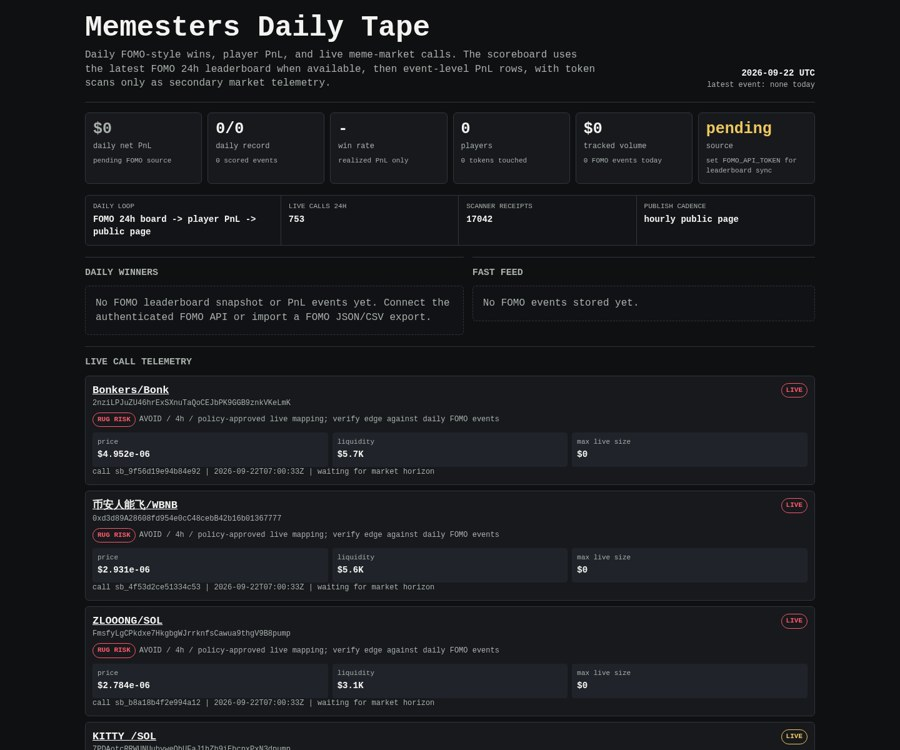
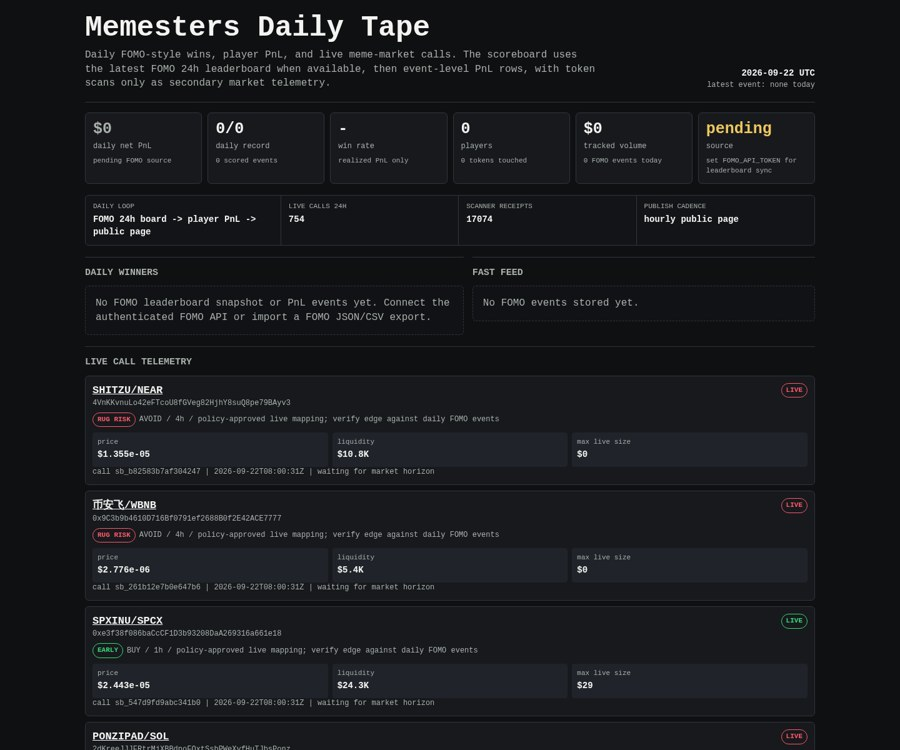
Update Memesters scoreboard

diff --git a/memesters/index.html b/memesters/index.html
@@ -149,8 +149,8 @@
 
     <div class="rail" aria-label="live operating loop">
       <div><span>daily loop</span><b>FOMO 24h board -> player PnL -> public page</b></div>
-      <div><span>live calls 24h</span><b>753</b></div>
-      <div><span>scanner receipts</span><b>17042</b></div>
+      <div><span>live calls 24h</span><b>754</b></div>
+      <div><span>scanner receipts</span><b>17074</b></div>
       <div><span>publish cadence</span><b>hourly public page</b></div>
     </div>
 
@@ -171,8 +171,8 @@
     <article class="receipt">
       <div class="receipt-head">
         <div>
-          <div class="pair"><a href="https://dexscreener.com/solana/6pqt82cl3pr6shnfeiccpis3o4dpdwextxwemv9hyfvp">Bonkers/Bonk</a></div>
-          <div class="addr">2nziLPJuZU46hrExSXnuTaQoCEJbPK9GGB9znkVKeLmK</div>
+          <div class="pair"><a href="https://dexscreener.com/solana/j7jfrhabq9zabovcb5zbcwkttblleiipccfd64wwdxvp">SHITZU/NEAR</a></div>
+          <div class="addr">4VnKKvnuLo42eFTcoU8fGVeg82HjhY8suQ8pe79BAyv3</div>
           <div class="addr policy-line">
             <span class="badge rug-risk">RUG RISK</span>
             <span>AVOID / 4h / policy-approved live mapping; verify edge against daily FOMO events</span>
@@ -181,19 +181,19 @@
         <span class="badge rug-risk">LIVE</span>
       </div>
       <div class="receipt-grid">
-        <div class="kv"><span>price</span><b>$4.952e-06</b></div>
-        <div class="kv"><span>liquidity</span><b>$5.7K</b></div>
+        <div class="kv"><span>price</span><b>$1.355e-05</b></div>
+        <div class="kv"><span>liquidity</span><b>$10.8K</b></div>
         <div class="kv"><span>max live size</span><b>$0</b></div>
       </div>
-      <div class="outcomes">call sb_9f56d19e94b84e92 | 2026-09-22T07:00:33Z | waiting for market horizon</div>
+      <div class="outcomes">call sb_b82583b7af304247 | 2026-09-22T08:00:31Z | waiting for market horizon</div>
     </article>
     
 
     <article class="receipt">
       <div class="receipt-head">
         <div>
-          <div class="pair"><a href="https://dexscreener.com/bsc/0x09c7a2e4590b4dddc2b539b63db1225b899f302e">币安人能飞/WBNB</a></div>
-          <div class="addr">0xd3d89A28608fd954e0cC48cebB42b16b01367777</div>
+          <div class="pair"><a href="https://dexscreener.com/bsc/0x460ef86d7eb2d6caefb2e8536a050966bc842379">币安飞/WBNB</a></div>
+          <div class="addr">0x9C3b9b4610D716Bf0791ef2688B0f2E42ACE7777</div>
           <div class="addr policy-line">
             <span class="badge rug-risk">RUG RISK</span>
             <span>AVOID / 4h / policy-approved live mapping; verify edge against daily FOMO events</span>
@@ -202,61 +202,19 @@
         <span class="badge rug-risk">LIVE</span>
       </div>
       <div class="receipt-grid">
-        <div class="kv"><span>price</span><b>$2.931e-06</b></div>
-        <div class="kv"><span>liquidity</span><b>$5.6K</b></div>
+        <div class="kv"><span>price</span><b>$2.776e-06</b></div>
+        <div class="kv"><span>liquidity</span><b>$5.4K</b></div>
         <div class="kv"><span>max live size</span><b>$0</b></div>
       </div>
-      <div class="outcomes">call sb_4f53d2ce51334c53 | 2026-09-22T07:00:33Z | waiting for market horizon</div>
+      <div class="outcomes">call sb_261b12e7b0e647b6 | 2026-09-22T08:00:31Z | waiting for market horizon</div>
     </article>
     
 
     <article class="receipt">
       <div class="receipt-head">
         <div>
-          <div class="pair"><a href="https://dexscreener.com/solana/bjnigikgjc1wzs9xhzafnststfyxzjwghpg6ah5tmjeg">ZLOOONG/SOL</a></div>
-          <div class="addr">FmsfyLgCPkdxe7HkgbgWJrrknfsCawua9thgV9B8pump</div>
-          <div class="addr policy-line">
-            <span class="badge rug-risk">RUG RISK</span>
-            <span>AVOID / 4h / policy-approved live mapping; verify edge against daily FOMO events</span>
-          </div>
-        </div>
-        <span class="badge rug-risk">LIVE</span>
-      </div>
-      <div class="receipt-grid">
-        <div class="kv"><span>price</span><b>$2.784e-06</b></div>
-        <div class="kv"><span>liquidity</span><b>$3.1K</b></div>
-        <div class="kv"><span>max live size</span><b>$0</b></div>
-      </div>
-      <div class="outcomes">call sb_b8a18b4f2e994a12 | 2026-09-22T07:00:33Z | waiting for market horizon</div>
-    </article>
-    
-
-    <article class="receipt">
-      <div class="receipt-head">
-        <div>
-          <div class="pair"><a href="https://dexscreener.com/solana/7qrbf6y64h87rpaz5kndqdvtjavir891vxsujxa9b4tu">KITTY /SOL</a></div>
-          <div class="addr">7PDAotcRRWUNUubyweQbUFaJ1hZb9iEbcpxPxN3dpump</div>
-          <div class="addr policy-line">
-            <span class="badge chase">CHASE</span>
-            <span>AVOID / 4h / policy-approved live mapping; verify edge against daily FOMO events</span>
-          </div>
-        </div>
-        <span class="badge chase">LIVE</span>
-      </div>
-      <div class="receipt-grid">
-        <div class="kv"><span>price</span><b>$0.0002653</b></div>
-        <div class="kv"><span>liquidity</span><b>$45.2K</b></div>
-        <div class="kv"><span>max live size</span><b>$0</b></div>
-      </div>
-      <div class="outcomes">call sb_65b83c99dfa14af2 | 2026-09-22T07:00:32Z | waiting for market horizon</div>
-    </article>
-    
-
-    <article class="receipt">
-      <div class="receipt-head">
-        <div>
-          <div class="pair"><a href="https://dexscreener.com/robinhood/0xc308e15adc80afcb211f1fdb9d0e7a625683e16bf14c165423f0bcec8a7eb3b2">PENNY/ETH</a></div>
-          <div class="addr">0x0885c95db27AFCe893a8aad1c4f50DB54560c92C</div>
+          <div class="pair"><a href="https://dexscreener.com/robinhood/0xb8f64cba3798da88a197453df15f388be0023e7df43441fe84739b03a4ce87a5">SPXINU/SPCX</a></div>
+          <div class="addr">0xe3f38f086baCcCF1D3b93208DaA269316a661e18</div>
           <div class="addr policy-line">
             <span class="badge early">EARLY</span>
             <span>BUY / 1h / policy-approved live mapping; verify edge against daily FOMO events</span>
@@ -265,19 +223,19 @@
         <span class="badge early">LIVE</span>
       </div>
       <div class="receipt-grid">
-        <div class="kv"><span>price</span><b>$4.813e-05</b></div>
-        <div class="kv"><span>liquidity</span><b>$21.2K</b></div>
-        <div class="kv"><span>max live size</span><b>$217</b></div>
+        <div class="kv"><span>price</span><b>$2.443e-05</b></div>
+        <div class="kv"><span>liquidity</span><b>$24.3K</b></div>
+        <div class="kv"><span>max live size</span><b>$29</b></div>
       </div>
-      <div class="outcomes">call sb_4eb93966d88043f9 | 2026-09-22T07:00:32Z | waiting for market horizon</div>
+      <div class="outcomes">call sb_547d9fd9abc341b0 | 2026-09-22T08:00:31Z | waiting for market horizon</div>
     </article>
     
 
     <article class="receipt">
       <div class="receipt-head">
         <div>
-          <div class="pair"><a href="https://dexscreener.com/solana/7ynhwugfm2qown5thm29kvwgh7etvmgjbz4xrsst4jum">Keainu/METAx</a></div>
-          <div class="addr">96bAkZ5CC3JGHpj4cNXwJXtsBGWpNWyvRhxJd46bHRZy</div>
+          <div class="pair"><a href="https://dexscreener.com/solana/3eyjwes5cas5ru6dy6d1pnhk62bbdjdiuzlk6pmuei1b">PONZIPAD/SOL</a></div>
+          <div class="addr">2dKreeJJJFRtrMjXBBdpoFQxtSsbPWeXyfHuTJbsPonz</div>
           <div class="addr policy-line">
             <span class="badge rug-risk">RUG RISK</span>
             <span>AVOID / 4h / policy-approved live mapping; verify edge against daily FOMO events</span>
@@ -286,11 +244,95 @@
         <span class="badge rug-risk">LIVE</span>
       </div>
       <div class="receipt-grid">
-        <div class="kv"><span>price</span><b>$2.333e-05</b></div>
-        <div class="kv"><span>liquidity</span><b>$13.7K</b></div>
+        <div class="kv"><span>price</span><b>$2.599e-05</b></div>
+        <div class="kv"><span>liquidity</span><b>$12.6K</b></div>
         <div class="kv"><span>max live size</span><b>$0</b></div>
       </div>
-      <div class="outcomes">call sb_e279c71048894d71 | 2026-09-22T07:00:32Z | waiting for market horizon</div>
+      <div class="outcomes">call sb_6875edbd58904ef3 | 2026-09-22T08:00:30Z | waiting for market horizon</div>
+    </article>
+    
+
+    <article class="receipt">
+      <div class="receipt-head">
+        <div>
+          <div class="pair"><a href="https://dexscreener.com/bsc/0x8f4ee4f6fb4c36183cbd2a3feb6822d7581416e2">BNBS/BNCB</a></div>
+          <div class="addr">0xA9da5Eb37A371551F3dF7b7F4c5C2107184C7777</div>
+          <div class="addr policy-line">
+            <span class="badge rug-risk">RUG RISK</span>
+            <span>AVOID / 4h / policy-approved live mapping; verify edge against daily FOMO events</span>
+          </div>
+        </div>
+        <span class="badge rug-risk">LIVE</span>
+      </div>
+      <div class="receipt-grid">
+        <div class="kv"><span>price</span><b>$2.316e-05</b></div>
+        <div class="kv"><span>liquidity</span><b>$15.6K</b></div>
+        <div class="kv"><span>max live size</span><b>$0</b></div>
+      </div>
+      <div class="outcomes">call sb_8abf6017f80f4ab9 | 2026-09-22T08:00:30Z | waiting for market horizon</div>
+    </article>
+    
+
+    <article class="receipt">
+      <div class="receipt-head">
+        <div>
+          <div class="pair"><a href="https://dexscreener.com/bsc/0x105843192e684d4df5daca39bb5b34fffa448f44">股票能飞/WBNB</a></div>
+          <div class="addr">0x6809A41c019CAB30A74727c2158Ed8Af67c57777</div>
+          <div class="addr policy-line">
+            <span class="badge early">EARLY</span>
+            <span>BUY / 1h / policy-approved live mapping; verify edge against daily FOMO events</span>
+          </div>
+        </div>
+        <span class="badge early">LIVE</span>
+      </div>
+      <div class="receipt-grid">
+        <div class="kv"><span>price</span><b>$7.856e-05</b></div>
+        <div class="kv"><span>liquidity</span><b>$28.8K</b></div>
+        <div class="kv"><span>max live size</span><b>$345</b></div>
+      </div>
+      <div class="outcomes">call sb_d9b94a0416d24f50 | 2026-09-22T08:00:30Z | waiting for market horizon</div>
+    </article>
+    
+
+    <article class="receipt">
+      <div class="receipt-head">
+        <div>
+          <div class="pair"><a href="https://dexscreener.com/robinhood/0xe7d9b451db9ff15a8062bda895ca90c9712345c7476ef81c2f630f56011e1392">STELX/ETH</a></div>
+          <div class="addr">0x7A8cda6A1cAB3e5146Cd13Cb623a3bb284fb4aD1</div>
+          <div class="addr policy-line">
+            <span class="badge early">EARLY</span>
+            <span>BUY / 1h / policy-approved live mapping; verify edge against daily FOMO events</span>
+          </div>
+        </div>
+        <span class="badge early">LIVE</span>
+      </div>
+      <div class="receipt-grid">
+        <div class="kv"><span>price</span><b>$9.358e-05</b></div>
+        <div class="kv"><span>liquidity</span><b>$29.6K</b></div>
+        <div class="kv"><span>max live size</span><b>$216</b></div>
+      </div>
+      <div class="outcomes">call sb_70e9a416a5fb4161 | 2026-09-22T08:00:30Z | waiting for market horizon</div>
+    </article>
+    
+
+    <article class="receipt">
+      <div class="receipt-head">
+        <div>
+          <div class="pair"><a href="https://dexscreener.com/robinhood/0xb50cc879831cc9c42263b61203b187fbcd22899d">TRUMPTV/WETH</a></div>
+          <div class="addr">0x18eFE6E386aD4d678E6B8a54B8Cf6d7EfC8B3DA1</div>
+          <div class="addr policy-line">
+            <span class="badge chase">CHASE</span>
+            <span>AVOID / 4h / policy-approved live mapping; verify edge against daily FOMO events</span>
+          </div>
+        </div>
+        <span class="badge chase">LIVE</span>
+      </div>
+      <div class="receipt-grid">
+        <div class="kv"><span>price</span><b>$0.0001154</b></div>
+        <div class="kv"><span>liquidity</span><b>$65.7K</b></div>
+        <div class="kv"><span>max live size</span><b>$0</b></div>
+      </div>
+      <div class="outcomes">call sb_52c7f0e914714b88 | 2026-09-22T08:00:30Z | waiting for market horizon</div>
     </article>
     
 
@@ -307,11 +349,11 @@
         <span class="badge rug-risk">LIVE</span>
       </div>
       <div class="receipt-grid">
-        <div class="kv"><span>price</span><b>$2.756e-06</b></div>
-        <div class="kv"><span>liquidity</span><b>$2.7K</b></div>
+        <div class="kv"><span>price</span><b>$2.511e-06</b></div>
+        <div class="kv"><span>liquidity</span><b>$2.5K</b></div>
         <div class="kv"><span>max live size</span><b>$0</b></div>
       </div>
-      <div class="outcomes">call sb_4354c421c9574621 | 2026-09-22T07:00:32Z | waiting for market horizon</div>
+      <div class="outcomes">call sb_4f51fce3225d4155 | 2026-09-22T07:45:25Z | waiting for market horizon</div>
     </article>
     
 
@@ -321,27 +363,6 @@
           <div class="pair"><a href="https://dexscreener.com/robinhood/0x912852aaad9a4b4ec3e402bf8a0e6a72692cacaa">CLASH/VIRTUAL</a></div>
           <div class="addr">0xceB9A7C4eC7bf0EE14Bac1f16C97571bC22DB979</div>
           <div class="addr policy-line">
-            <span class="badge early">EARLY</span>
-            <span>BUY / 1h / policy-approved live mapping; verify edge against daily FOMO events</span>
-          </div>
-        </div>
-        <span class="badge early">LIVE</span>
-      </div>
-      <div class="receipt-grid">
-        <div class="kv"><span>price</span><b>$0.0002315</b></div>
-        <div class="kv"><span>liquidity</span><b>$63.4K</b></div>
-        <div class="kv"><span>max live size</span><b>$422</b></div>
-      </div>
-      <div class="outcomes">call sb_30db2385e9bb4654 | 2026-09-22T07:00:32Z | waiting for market horizon</div>
-    </article>
-    
-
-    <article class="receipt">
-      <div class="receipt-head">
-        <div>
-          <div class="pair"><a href="https://dexscreener.com/solana/fakr6zhytlaqpuowerobb1mvjr2xmtaanxynlszghhrg">CashFrog/SOL</a></div>
-          <div class="addr">2k1g1NKB85swTVLYijWkutRFMS9MjXfJnqzzqfSypump</div>
-          <div class="addr policy-line">
             <span class="badge chase">CHASE</span>
             <span>AVOID / 4h / policy-approved live mapping; verify edge against daily FOMO events</span>
           </div>
@@ -349,32 +370,11 @@
         <span class="badge chase">LIVE</span>
       </div>
       <div class="receipt-grid">
-        <div class="kv"><span>price</span><b>$0.0002428</b></div>
-        <div class="kv"><span>liquidity</span><b>$43.9K</b></div>
+        <div class="kv"><span>price</span><b>$0.0002058</b></div>
+        <div class="kv"><span>liquidity</span><b>$59.8K</b></div>
         <div class="kv"><span>max live size</span><b>$0</b></div>
       </div>
-      <div class="outcomes">call sb_5e135a17da0c4ae1 | 2026-09-22T06:45:26Z | waiting for market horizon</div>
-    </article>
-    
-
-    <article class="receipt">
-      <div class="receipt-head">
-        <div>
-          <div class="pair"><a href="https://dexscreener.com/solana/c6x94vbfn4d8scjmh5xlkfvzpvgsnibfbmvg4pgqdbdu">STONKPOT/SOL</a></div>
-          <div class="addr">FMinJE1XKP4WoF7TuRhJK9JgRy6gwsrkifSHYW6Mpump</div>
-          <div class="addr policy-line">
-            <span class="badge early">EARLY</span>
-            <span>BUY / 1h / policy-approved live mapping; verify edge against daily FOMO events</span>
-          </div>
-        </div>
-        <span class="badge early">LIVE</span>
-      </div>
-      <div class="receipt-grid">
-        <div class="kv"><span>price</span><b>$5.317e-05</b></div>
-        <div class="kv"><span>liquidity</span><b>$19.0K</b></div>
-        <div class="kv"><span>max live size</span><b>$229</b></div>
-      </div>
-      <div class="outcomes">call sb_dc11a4649afa4751 | 2026-09-22T06:45:26Z | waiting for market horizon</div>
+      <div class="outcomes">call sb_5e967378860747a2 | 2026-09-22T07:45:25Z | waiting for market horizon</div>
     </article>
     
     </section>
